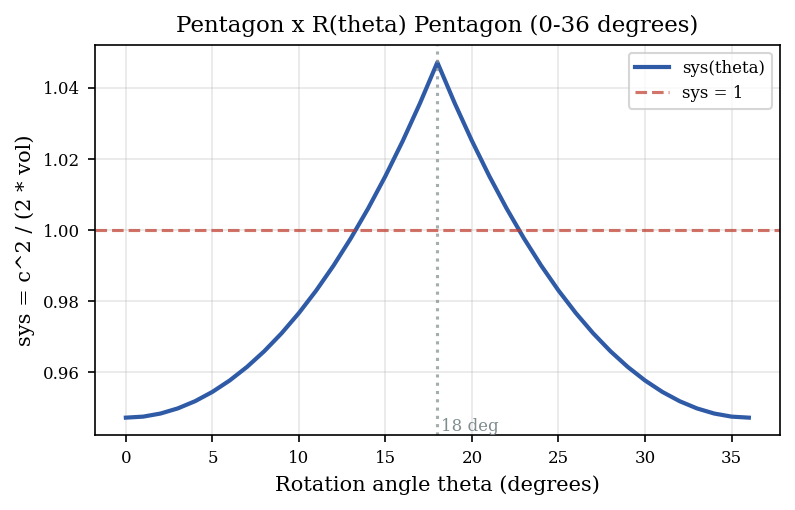
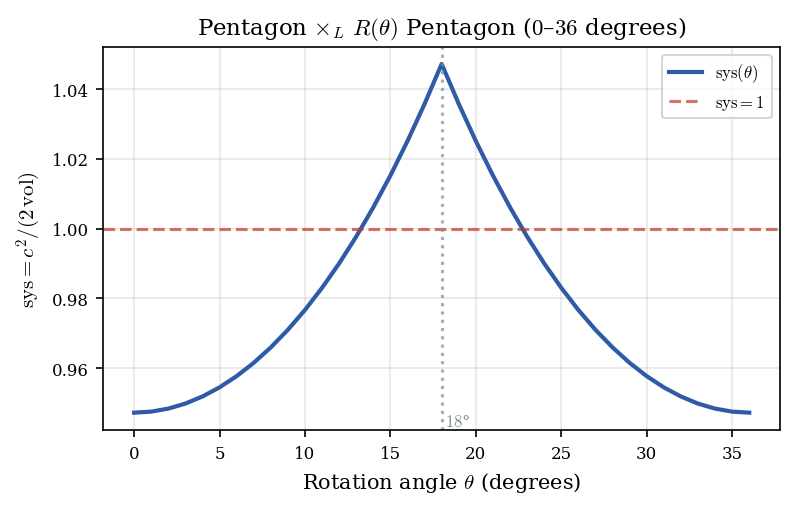
Add heptagon 7x7 rotation sweep to lagrangian-products experiment
Peak sys ≈ 0.917 at θ ≈ 12.9°, well below 1. No counterexample.
27 data points at ~1° resolution over [0°, 25.7°] fundamental domain.
Also fixes math notation in figure labels across all plots.

diff --git a/experiments/lagrangian-products/analyze.py b/experiments/lagrangian-products/analyze.py
@@ -6,6 +6,7 @@ Goal: Visualize sys(theta) for the 5x5 pentagon sweep and selected n-gon x m-gon
 Input: experiments/lagrangian-products/lagrangian-products-5x5.jsonl,
        experiments/lagrangian-products/lagrangian-products-<n>x<m>-6deg.jsonl
 Output: experiments/lagrangian-products/lagrangian_products_5x5.png,
+        experiments/lagrangian-products/lagrangian_products_7x7.png,
         experiments/lagrangian-products/lagrangian_products_polygon_pairs.png
 """
 import json
@@ -55,15 +56,15 @@ def plot_sweep(data: list[dict], output: Path):
     sys_vals = np.array([d["sys"] for d in rows])
 
     fig, ax = plt.subplots(figsize=FIGSIZE_SINGLE)
-    ax.plot(angles, sys_vals, color="#2f5aa6", linewidth=2.0, label="sys(theta)")
-    ax.axhline(y=1.0, color="#c0392b", linestyle="--", alpha=0.7, label="sys = 1")
+    ax.plot(angles, sys_vals, color="#2f5aa6", linewidth=2.0, label=r"$\mathrm{sys}(\theta)$")
+    ax.axhline(y=1.0, color="#c0392b", linestyle="--", alpha=0.7, label=r"$\mathrm{sys} = 1$")
 
-    ax.set_xlabel("Rotation angle theta (degrees)")
-    ax.set_ylabel("sys = c^2 / (2 * vol)")
-    ax.set_title("Pentagon x R(theta) Pentagon (0-36 degrees)")
+    ax.set_xlabel(r"Rotation angle $\theta$ (degrees)")
+    ax.set_ylabel(r"$\mathrm{sys} = c^2 / (2\,\mathrm{vol})$")
+    ax.set_title(r"Pentagon $\times_L$ $R(\theta)$ Pentagon ($0$–$36$ degrees)")
 
     ax.axvline(x=18.0, color="#7f8c8d", linestyle=":", alpha=0.7)
-    ax.text(18.2, ax.get_ylim()[0], "18 deg", fontsize=8, color="#7f8c8d", va="bottom")
+    ax.text(18.2, ax.get_ylim()[0], r"$18$°", fontsize=8, color="#7f8c8d", va="bottom")
 
     ax.legend(loc="best")
     fig.tight_layout()
@@ -128,10 +129,46 @@ def plot_polygon_pairs(data: dict[tuple[int, int], list[dict]], output: Path):
     print(f"Saved: {output}")
 
 
+def plot_heptagon_sweep(data: list[dict], output: Path):
+    """Plot sys vs rotation angle for heptagon x R(theta) heptagon."""
+    rows = sorted(data, key=lambda d: d["angle_deg"])
+    angles = np.array([d["angle_deg"] for d in rows])
+    sys_vals = np.array([d["sys"] for d in rows])
+
+    fig, ax = plt.subplots(figsize=FIGSIZE_SINGLE)
+    ax.plot(angles, sys_vals, color="#2f5aa6", linewidth=2.0, label=r"$\mathrm{sys}(\theta)$")
+    ax.axhline(y=1.0, color="#c0392b", linestyle="--", alpha=0.7, label=r"$\mathrm{sys} = 1$")
+
+    ax.set_xlabel(r"Rotation angle $\theta$ (degrees)")
+    ax.set_ylabel(r"$\mathrm{sys} = c^2 / (2\,\mathrm{vol})$")
+    ax.set_title(r"Heptagon $\times_L$ $R(\theta)$ Heptagon ($0$–$25.7$ degrees)")
+
+    i_max = int(np.argmax(sys_vals))
+    ax.axvline(x=angles[i_max], color="#7f8c8d", linestyle=":", alpha=0.7)
+    ax.text(
+        angles[i_max] + 0.3, ax.get_ylim()[0],
+        f"${angles[i_max]:.1f}$°", fontsize=8, color="#7f8c8d", va="bottom",
+    )
+
+    ax.legend(loc="best")
+    fig.tight_layout()
+    fig.savefig(output)
+    plt.close(fig)
+    print(f"Saved: {output}")
+
+    print("\nHeptagon sweep summary:")
+    print(f"  Points: {len(rows)}")
+    print(f"  sys range: [{sys_vals.min():.6f}, {sys_vals.max():.6f}]")
+    print(f"  Max sys at theta = {angles[i_max]:.2f} deg")
+
+
 def main():
     FIGURES_DIR.mkdir(parents=True, exist_ok=True)
     data = load_jsonl(DATA_DIR / "lagrangian-products-5x5.jsonl")
     plot_sweep(data, FIGURES_DIR / "lagrangian_products_5x5.png")
+
+    data_7x7 = load_jsonl(DATA_DIR / "lagrangian-products-7x7.jsonl")
+    plot_heptagon_sweep(data_7x7, FIGURES_DIR / "lagrangian_products_7x7.png")
 
     pair_data = load_pair_data(DATA_DIR)
     plot_polygon_pairs(pair_data, FIGURES_DIR / "lagrangian_products_polygon_pairs.png")

diff --git a/experiments/lagrangian-products/run.rs b/experiments/lagrangian-products/run.rs
@@ -1,9 +1,10 @@
 //! Lagrangian products sweeps for selected regular polygon pairs.
 //!
 //! Architecture:
-//! 1. `cargo run --bin lagrangian_products --release` generates pentagon 5x5 sweep
-//!    and regular polygon pair sweeps.
-//! 2. Writes to lagrangian-products/lagrangian-products-5x5.jsonl and
+//! 1. `cargo run --bin lagrangian_products --release` generates fine sweeps
+//!    (pentagon 5x5, heptagon 7x7) and coarse polygon pair sweeps.
+//! 2. Writes to lagrangian-products/lagrangian-products-5x5.jsonl,
+//!    lagrangian-products/lagrangian-products-7x7.jsonl, and
 //!    lagrangian-products/lagrangian-products-<n>x<m>-6deg.jsonl
 //!
 //! Capacity algorithm: billiard (fast, production default for Lagrangian products).
@@ -55,7 +56,80 @@ struct SweepRow {
 
 fn main() {
     generate_pentagon_5x5();
+    generate_heptagon_7x7();
     generate_polygon_pairs();
+}
+
+/// Heptagon x heptagon fine sweep over [0, 180/7] degrees.
+/// Fundamental domain from [lem:rotation-fundamental-domain].
+fn generate_heptagon_7x7() {
+    let n = 7;
+    let end_deg = 180.0 / n as f64;
+    // 26 steps over 25.71° ≈ 0.99° per step, comparable to the 5x5 sweep (1°/step).
+    let num_steps: usize = 26;
+    let step_deg = end_deg / num_steps as f64;
+
+    let output_path = std::path::Path::new(env!("CARGO_MANIFEST_DIR"))
+        .join("lagrangian-products/lagrangian-products-7x7.jsonl");
+    let file = File::create(&output_path).expect("cannot create output file");
+    let mut writer = BufWriter::new(file);
+
+    eprintln!(
+        "Heptagon 7x7 sweep: {} angles in [0.0°, {end_deg:.2}°], step={step_deg:.3}°",
+        num_steps + 1
+    );
+
+    let (qn, qh) = regular_polygon_2d(n, 1.0);
+    let (pn_base, ph_base) = regular_polygon_2d(n, 1.0);
+    let area_q = polygon_area(&qn, &qh).expect("area_q");
+    let area_p = polygon_area(&pn_base, &ph_base).expect("area_p");
+
+    for i in 0..=num_steps {
+        let angle_deg = step_deg * (i as f64);
+        let theta = angle_deg.to_radians();
+
+        let (pn, ph) = rotate_polygon_2d(&pn_base, &ph_base, theta);
+        let polytope = lagrangian_product(&qn, &qh, &pn, &ph)
+            .expect("heptagon product construction failed");
+
+        let vol = volume(&polytope).expect("volume computation failed");
+
+        let start = Instant::now();
+        let result = billiard_capacity(&polytope)
+            .expect("billiard failed")
+            .expect("billiard returned None");
+        let time_ms = start.elapsed().as_secs_f64() * 1000.0;
+
+        let cap = result.result.capacity;
+        let sys = cap * cap / (2.0 * vol);
+
+        let row = SweepRow {
+            family: "heptagon_7x7_sweep".to_string(),
+            n1: n,
+            n2: n,
+            angle_deg,
+            facet_count: 2 * n,
+            volume: vol,
+            capacity: cap,
+            sys,
+            time_capacity_ms: time_ms,
+            area_q,
+            area_p,
+            iterations: result.result.iterations,
+            bounces: result.bounce_count,
+        };
+        let line = serde_json::to_string(&row).expect("serialize");
+        writeln!(writer, "{line}").expect("write");
+
+        if i % 5 == 0 {
+            eprintln!(
+                "  {i}/{num_steps}: theta={angle_deg:.2} deg sys={sys:.6} cap={cap:.6} ({time_ms:.0}ms)"
+            );
+        }
+    }
+
+    writer.flush().expect("flush output");
+    eprintln!("Done. Output: {}", output_path.display());
 }
 
 fn generate_pentagon_5x5() {

diff --git a/experiments/lagrangian-products/math.tex b/experiments/lagrangian-products/math.tex
@@ -109,6 +109,27 @@ domain---about~$25\%$ of the period.
 \label{fig:pentagon-sweep}
 \end{figure}
 
+\subsubsection*{Family 1b: Heptagon rotation curve}
+
+We repeat the fine sweep for the regular heptagon ($n = 7$). The fundamental
+domain is $[0^\circ, 180^\circ/7 \approx 25.71^\circ]$
+(Lemma~\ref{lem:rotation-fundamental-domain}), sampled at~$26$ equal steps
+($\approx 0.99^\circ$ resolution). Data: \texttt{lagrangian-products-7x7.jsonl}
+(27~rows).
+
+The curve peaks at $\theta \approx 12.9^\circ$ with $\mathrm{sys} \approx 0.917$,
+well below~$1$. No counterexample.
+
+\begin{figure}[h]
+\centering
+\includegraphics[width=0.9\textwidth]{../experiments/lagrangian-products/lagrangian_products_7x7.png}
+\caption{Systolic ratio of $\mathrm{Heptagon} \times_L R(\theta)\,
+  \mathrm{Heptagon}$ as a function of rotation angle~$\theta$ on the
+  fundamental domain $[0^\circ, 25.7^\circ]$. The red dashed line marks
+  $\mathrm{sys} = 1$ (Viterbo threshold).}
+\label{fig:heptagon-sweep}
+\end{figure}
+
 \subsubsection*{Family 2: Regular polygon pairs}
 
 We sweep the rotation angle for the regular pairs

diff --git a/experiments/lagrangian-products/logbook.md b/experiments/lagrangian-products/logbook.md
@@ -6,7 +6,7 @@ The only known 4D counterexample to Viterbo's conjecture is a Lagrangian product
 
 ## Status
 
-**Complete.** Pentagon x pentagon at theta = 18 degrees confirms the HKO counterexample (sys ~ 1.047). No other regular polygon pair with 3 <= n <= m <= 6 achieves sys > 1 (at 6-degree resolution).
+**Complete.** Pentagon x pentagon at theta = 18 degrees confirms the HKO counterexample (sys ~ 1.047). Heptagon x heptagon peaks at sys ~ 0.917 (theta ~ 12.9 degrees), well below 1. No other regular polygon pair with 3 <= n <= m <= 7 achieves sys > 1.
 
 ## How to run
 
@@ -24,6 +24,7 @@ python3 lagrangian-products/analyze.py           # generates plots
 | `analyze.py` | Python: plots sys(theta) curves |
 | `math.tex` | Formal proofs and definitions (symmetry lemma, rotation curves, polygon pair grid) |
 | `lagrangian-products-5x5.jsonl` | Pentagon rotation curve (37 rows) |
+| `lagrangian-products-7x7.jsonl` | Heptagon rotation curve (27 rows) |
 | `lagrangian-products-3x3-6deg.jsonl` | Triangle x triangle sweep (11 rows) |
 | `lagrangian-products-3x4-6deg.jsonl` | Triangle x square sweep (4 rows) |
 | `lagrangian-products-3x5-6deg.jsonl` | Triangle x pentagon sweep (3 rows) |
@@ -35,6 +36,7 @@ python3 lagrangian-products/analyze.py           # generates plots
 | `lagrangian-products-5x6-6deg.jsonl` | Pentagon x hexagon sweep (2 rows) |
 | `lagrangian-products-6x6-6deg.jsonl` | Hexagon x hexagon sweep (6 rows) |
 | `lagrangian_products_5x5.png` | Pentagon rotation curve figure |
+| `lagrangian_products_7x7.png` | Heptagon rotation curve figure |
 | `lagrangian_products_polygon_pairs.png` | All polygon pairs comparison figure |
 
 ## Design
@@ -51,9 +53,11 @@ For regular n-gon x m-gon, sys(theta) has period 2*pi/lcm(n,m) and mirror symmet
 
 1. **Pentagon rotation curve (Family 1):** P = Q = regular pentagon, theta in [0, 36] degrees at 1-degree steps. Fundamental domain = 180/lcm(5,5) = 36 degrees. Output: `lagrangian-products-5x5.jsonl` (37 points).
 
-2. **Polygon pair grid (Family 2):** All pairs (n, m) with 3 <= n <= m <= 6, at 6-degree steps over the fundamental domain. 10 pairs, one JSONL file each. Capacity computed using billiard algorithm.
+2. **Heptagon rotation curve (Family 1b):** P = Q = regular heptagon, theta in [0, 180/7] degrees at ~1-degree steps (26 steps over the fundamental domain). Output: `lagrangian-products-7x7.jsonl` (27 points).
 
-3. **Random Lagrangian products (Family 3):** Delegated to separate `random-product-sweep` experiment.
+3. **Polygon pair grid (Family 2):** All pairs (n, m) with 3 <= n <= m <= 6, at 6-degree steps over the fundamental domain. 10 pairs, one JSONL file each. Capacity computed using billiard algorithm.
+
+4. **Random Lagrangian products (Family 3):** Delegated to separate `random-product-sweep` experiment.
 
 ### Algorithm
 
@@ -67,11 +71,13 @@ All capacities computed using the billiard algorithm (fast, production default f
 
 3. **Violation region** (sys > 1) spans approximately theta in (13.5, 22.5) degrees within each fundamental domain, about 25% of the period.
 
-4. **No other regular polygon pair (3 <= n <= m <= 6) achieves sys > 1** at 6-degree resolution. All 10 polygon pair curves stay below 1.
+4. **No other regular polygon pair (3 <= n <= m <= 7) achieves sys > 1.** All polygon pair curves stay below 1.
 
 5. **Sys is a smooth function of rotation angle** with the expected periodicity from the symmetry lemma.
 
 6. **The counterexample is a local maximum in the rotation parameter space.** The sys(theta) curve peaks at theta = 18 degrees and decreases in both directions.
+
+7. **Heptagon x heptagon peaks at sys ≈ 0.917 at theta ≈ 12.9 degrees.** The curve is symmetric about the midpoint of the fundamental domain (180/14 ≈ 12.86 degrees). The peak is well below 1 — no counterexample.
 
 ## Triangle x Square Investigation
 
@@ -93,5 +99,5 @@ Fixes applied to `crates/src/geom/known_polytopes.rs`:
 ## Known limitations
 
 - Only regular polygons tested; irregular polygon products not explored.
-- Rotation angle step size is 6 degrees for the polygon pair grid (coarser than the 1-degree pentagon sweep).
+- Rotation angle step size is 6 degrees for the polygon pair grid (coarser than the 1-degree pentagon/heptagon sweeps).
 - Family 3 (random Lagrangian products) delegated to `random-product-sweep` experiment.
